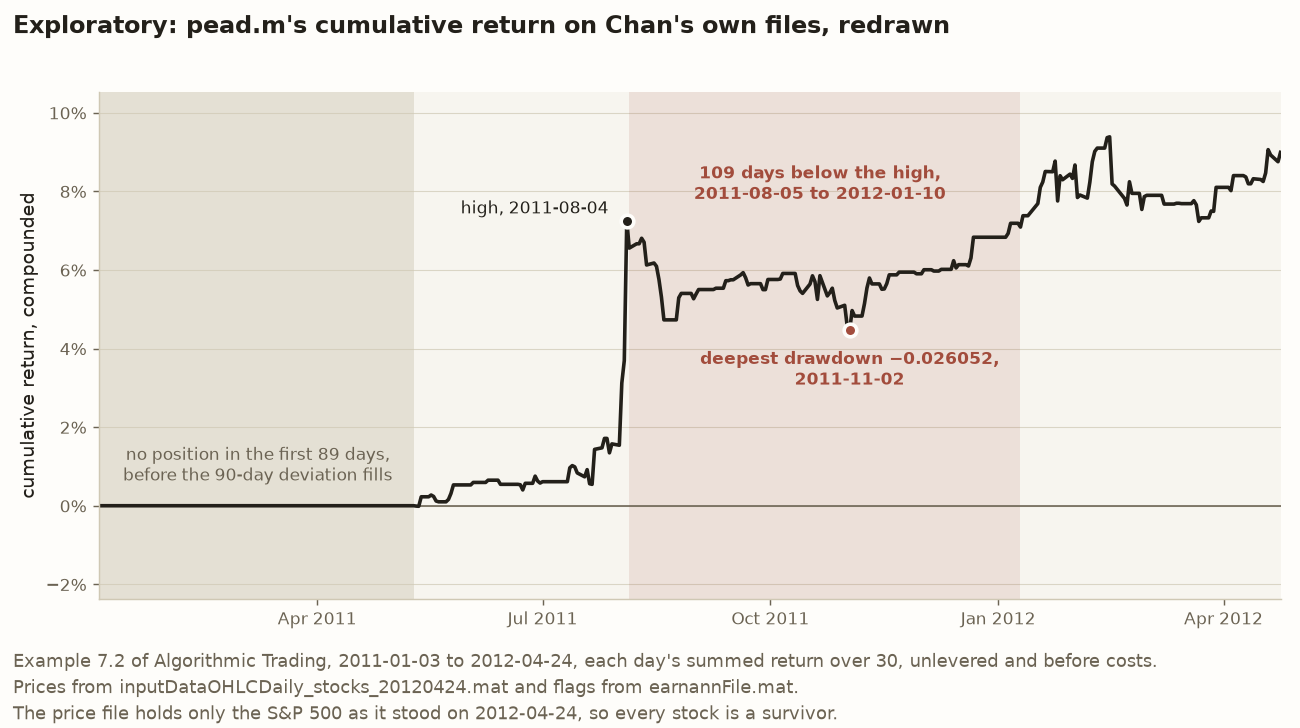
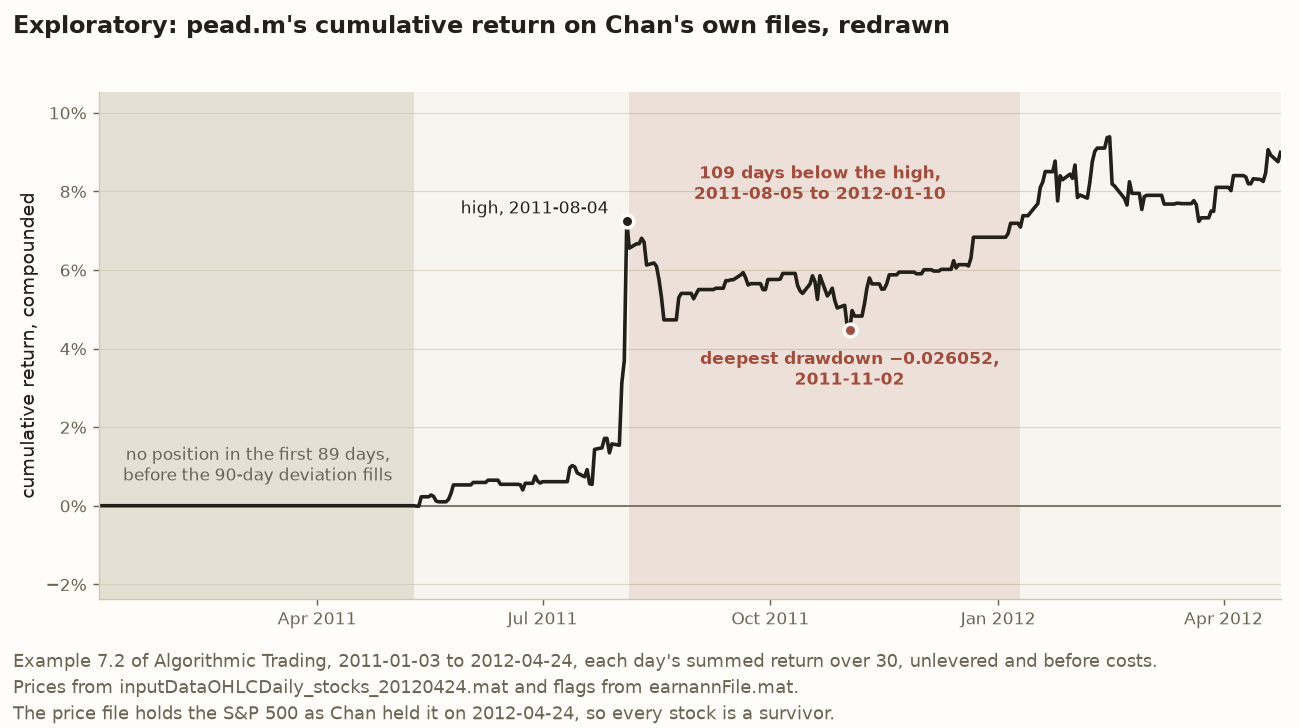
docs(blog): act on the review of the post-earnings drift post
Gives the leverage Chan's own reason, that the strategy is intraday,
rather than tying it to idle capital. Restores two hedges Chan wrote,
stops naming the flag file's source, and says "as Chan held it" for
the price file, including in the figure's note, which is redrawn.
Moves the exploratory label to where the figures first appear, glosses
APR, the Sharpe ratio and the drift, and drops repo vocabulary a blog
reader cannot decode. tests/test_pead.py names its three exceptions as
its siblings do. longest_spell now reads chan.matlab_helpers'
drawdown_path, the loop calculate_max_dd runs, rather than a copy.

Part of #284

Changed region(s): [[0.1538, 0.967, 0.6462, 0.9973]]

diff --git a/src/chan/pead_figures.py b/src/chan/pead_figures.py
@@ -7,8 +7,9 @@ figure for it. :func:`make_cumulative_figure` redraws what ``pead.m``'s closing
 ``plot(cumret)`` draws, which the book prints as Figure 7.2 at location 3024:
 the compounded cumulative return over the flag file's 330 days, at one
 thirtieth of capital a position, unlevered and before costs. It serves the
-post's first lesson, that every printed figure reproduces, and the spell it
-marks serves the third, that most days hold nothing.
+post's first lesson, that every printed figure reproduces. Its shaded start
+serves the third, where the 89 days before the moving deviation fills hold
+nothing, and its spell shows where the 109-day drawdown falls.
 
 Two stretches are shaded.
 
@@ -38,6 +39,7 @@ from matplotlib.figure import Figure
 from matplotlib.ticker import PercentFormatter
 
 from chan.coin_flip_figures import _plain_text, _save, _style, _title
+from chan.matlab_helpers import drawdown_path
 from chan.paths import FIGURES_DIR
 from chan.pead import (
     DENOMINATOR,
@@ -86,19 +88,11 @@ class Spell:
 def longest_spell(cumret: np.ndarray) -> Spell:
     """Where ``calculateMaxDD``'s longest duration falls, under its own rules.
 
-    The high starts at zero and the loop on the second row, as
-    :func:`chan.matlab_helpers.calculate_max_dd` keeps them, so the spell's
-    length is that function's duration. Where two spells tie, the first is
-    taken.
+    It reads :func:`chan.matlab_helpers.drawdown_path`, the loop
+    :func:`chan.matlab_helpers.calculate_max_dd` runs, so the spell's length is
+    that function's duration. Where two spells tie, the first is taken.
     """
-    values = np.asarray(cumret, dtype=float)
-    high = np.zeros_like(values)
-    drawdown = np.zeros_like(values)
-    duration = np.zeros(len(values), dtype=int)
-    for t in range(1, len(values)):
-        high[t] = max(high[t - 1], values[t])
-        drawdown[t] = (1 + values[t]) / (1 + high[t]) - 1
-        duration[t] = 0 if drawdown[t] == 0 else duration[t - 1] + 1
+    _, drawdown, duration = drawdown_path(cumret)
     last = int(np.argmax(duration))
     first = last - int(duration[last]) + 1
     trough = first + int(np.argmin(drawdown[first : last + 1]))
@@ -205,7 +199,7 @@ def make_cumulative_figure(out: Path | None = None, drift: Drift | None = None) 
         f"Example 7.2 of Algorithmic Trading, {days[0].date()} to {days[-1].date()}, each day's "
         f"summed return over {DENOMINATOR}, unlevered and before costs.\n"
         f"Prices from {PRICE_FILE} and flags from {FLAG_FILE}.\n"
-        "The price file holds only the S&P 500 as it stood on 2012-04-24, "
+        "The price file holds the S&P 500 as Chan held it on 2012-04-24, "
         "so every stock is a survivor.",
     )
     fig.tight_layout(rect=(0, 0.11, 1, 0.96))

diff --git a/src/chan/matlab_helpers.py b/src/chan/matlab_helpers.py
@@ -85,6 +85,9 @@ endings are stripped, measured on
   over a trailing window of rows, NaN until the window first fills.
 - :func:`calculate_max_dd` is ``calculateMaxDD``, the deepest drawdown of a
   compounded cumulative return and the longest run of days spent below a high.
+  :func:`drawdown_path` is its loop, returning each day's high, drawdown and
+  duration, so a caller that needs to know where the longest run falls reads
+  the same calculation rather than a second copy of it.
 
 Book two's ``smartmean``, ``smartsum`` and ``backshift`` compute what the first
 edition's do, so they are not carried twice.
@@ -260,6 +263,25 @@ def smart_moving_std(x: ArrayLike, lookback: int) -> NDArray[np.float64]:
     return spread
 
 
+def drawdown_path(
+    cumret: ArrayLike,
+) -> tuple[NDArray[np.float64], NDArray[np.float64], NDArray[np.int_]]:
+    """``calculateMaxDD``'s loop: each day's high, drawdown and duration below the high.
+
+    :func:`calculate_max_dd` takes the minimum drawdown and the maximum
+    duration of these, and its docstring states the rules and the two quirks.
+    """
+    values = np.asarray(cumret, dtype=float)
+    high = np.zeros_like(values)
+    drawdown = np.zeros_like(values)
+    duration = np.zeros(len(values), dtype=int)
+    for t in range(1, len(values)):
+        high[t] = max(high[t - 1], values[t])
+        drawdown[t] = (1 + values[t]) / (1 + high[t]) - 1
+        duration[t] = 0 if drawdown[t] == 0 else duration[t - 1] + 1
+    return high, drawdown, duration
+
+
 def calculate_max_dd(cumret: ArrayLike) -> tuple[float, int]:
     """``calculateMaxDD``: the deepest drawdown and the longest stretch below a high.
 
@@ -273,13 +295,6 @@ def calculate_max_dd(cumret: ArrayLike) -> tuple[float, int]:
     the first day's ``cumret``, and the loop starts on the second row, so the
     first day's drawdown and duration are both 0 whatever it returned.
     """
-    values = np.asarray(cumret, dtype=float)
-    high = np.zeros_like(values)
-    drawdown = np.zeros_like(values)
-    duration = np.zeros(len(values), dtype=int)
-    for t in range(1, len(values)):
-        high[t] = max(high[t - 1], values[t])
-        drawdown[t] = (1 + values[t]) / (1 + high[t]) - 1
-        duration[t] = 0 if drawdown[t] == 0 else duration[t - 1] + 1
+    _, drawdown, duration = drawdown_path(cumret)
     # MATLAB's min skips NaN. The first row is always 0, so the minimum exists.
     return float(np.nanmin(drawdown)), int(duration.max())

diff --git a/tests/test_pead.py b/tests/test_pead.py
@@ -1,7 +1,14 @@
 """The pins for post-earnings announcement drift, *Algorithmic Trading*'s Example 7.2.
 
 This file is the single authority for every number any prose surface quotes
-about Example 7.2. ``docs/replication-log.md`` Entry 12 carries the verdicts and
+about Example 7.2, with three exceptions, all in
+``blog/post-earnings-drift-lessons.md``. The post quotes the dates of the
+longest spell below the high, which ``tests/test_pead_figures.py`` holds. It
+quotes the flag file's 1,885 flags, Apple's three flagged days and the 29
+stocks with none, which ``tests/test_series.py`` holds as facts about the
+committed flags. And it recalls Example 7.7's two Sharpe ratios, which
+``tests/test_equity_seasonals.py`` holds. README lists what the post says that
+nothing pins. ``docs/replication-log.md`` Entry 12 carries the verdicts and
 points here row by row.
 
 Every pin on the committed files reads two vintages and one specification, so
@@ -205,7 +212,7 @@ class TestTheFigures:
         assert np.isfinite(drift.daily).all(), SPEC
 
     def test_157_of_the_330_days_hold_a_position_from_2011_05_11(self, drift: Drift) -> None:
-        """Most days hold nothing, which is the idle capital Chan's leverage is for."""
+        """More than half the days hold nothing, because each position gets a thirtieth."""
         held = np.count_nonzero(drift.positions, axis=1) > 0
         assert int(held.sum()) == 157, SPEC
         assert str(drift.days[held][0].date()) == "2011-05-11", SPEC

diff --git a/tests/test_pead_figures.py b/tests/test_pead_figures.py
@@ -10,9 +10,13 @@ reason ``tests/test_regime_figure.py`` gives.
 The figure reads the vintages and the specification ``tests/test_pead.py``
 names as its ``SPEC``, which every failure message here carries too.
 
-Three things are pinned here and nowhere else: the dates of the longest spell
-below the high, the high it falls from, and that the deepest drawdown sits
-inside it. ``calculateMaxDD`` returns the deepest drawdown and the longest
+Three things are pinned here and nowhere else.
+
+1. The dates of the longest spell below the high.
+2. The high it falls from.
+3. That the deepest drawdown sits inside it.
+
+``calculateMaxDD`` returns the deepest drawdown and the longest
 duration separately, and the two need not share a spell, so the figure
 finding them together is a fact about this run rather than about the helper.
 

diff --git a/blog/post-earnings-drift-lessons.md b/blog/post-earnings-drift-lessons.md
@@ -4,11 +4,13 @@
 
 ## Why reproduce a strategy that trades the news without reading it
 
-Ernest Chan’s second book, *Algorithmic Trading*, has a strategy that trades earnings announcements without reading them. A company announces after the close. The next morning, the stock opens well above or well below where it closed. Chan buys the stock if the open is up and shorts it if the open is down, and closes the position at the end of the same day. His case is that the move after an earnings surprise keeps going in the same direction for a while, and that the open already tells the trader which direction that is. The strategy “does not even require the trader to know whether the earnings are above or below analysts’ expectations” (Chan, 2013, location 2994).
+Ernest Chan’s second book, *Algorithmic Trading*, has a strategy that trades earnings announcements without reading them. A company announces after the close. The next morning, the stock opens well above or well below where it closed. Chan buys the stock if the open is up and shorts it if the open is down, and closes the position at the end of the same day. His case rests on an effect called post-earnings announcement drift: after an earnings surprise, the price keeps moving in the same direction for a while. The open already tells the trader which direction that is. The strategy “does not even require the trader to know whether the earnings are above or below analysts’ expectations” (Chan, 2013, location 2994).
 
-He reports that on the S&P 500 from January 2011 to April 2012, the strategy earned an APR of 6.7 percent with a Sharpe ratio of “a very respectable 1.5” (Chan, 2013, location 3024). The book’s code reads two data files that Chan saved, and both are public, so this repository committed them and ran his script on them.
+He reports that on the S&P 500 from January 2011 to April 2012, the strategy earned an annual percentage rate, or APR, of 6.7 percent, with a Sharpe ratio of “a very respectable 1.5” (Chan, 2013, location 3024). The Sharpe ratio divides the average daily return by its standard deviation and scales the result to a year, so it measures return per unit of risk.
 
-Every figure Chan prints for this example lands. The arithmetic annual return comes out at 0.066743, which is the book’s 6.7 percent. The Sharpe ratio comes out at 1.4909, which is the book’s 1.5. The script’s other three printed figures land too, and so do two numbers Chan states in his text.
+Chan published both his code and the two data files it reads, so a reader can check whether his figures follow from them before arguing about the strategy. Any later argument about whether the drift pays rests on that check. This repository keeps copies of both files and ran his script on them.
+
+Every figure Chan prints for this example matches. Computed, the arithmetic annual return, which is 252 times the average daily return, is 0.066743, the book’s 6.7 percent. The Sharpe ratio is 1.4909, the book’s 1.5. Three more figures the script prints match too, and so do two numbers Chan states in his text. Every one of these results is **exploratory**, because Chan chose the rule and its settings on these same days.
 
 None of that says whether the drift pays. A reproduction on the author’s files with the author’s script can say whether his numbers follow from his data. It cannot say what the strategy earned on the stocks a trader could actually have held in 2011, what it earns after costs, or what it has earned since.
 
@@ -16,14 +18,14 @@ The five lessons below say what the reproduction does teach. The code is open so
 
 ## The strategy and the two files
 
-The effect is called post-earnings announcement drift. Prices keep moving in the direction of an earnings surprise after the announcement, and Chan says it has been “known and studied since 1968”, citing Bernard and Thomas, 1989 (Chan, 2013, location 2994). His explanation is that information spreads slowly: if momentum comes from “the slow diffusion of news”, a trader can profit from the hours right after the news (Chan, 2013, location 2990).
+Chan says the drift has been “known and studied since 1968”, citing Bernard and Thomas, 1989 (Chan, 2013, location 2994). His reading starts from a common belief. “If, as many people believe, momentum is driven by the slow diffusion of news”, a trader can profit from the hours right after the news (Chan, 2013, location 2990).
 
 His version measures the surprise from the price alone. Call the move from one day’s close to the next day’s open the gap. In this post, gap means only that.
 
 1. **The announcement.** The trade needs a stock that announced after the previous close and before today’s open, between 4:00 p.m. and 9:30 a.m. Eastern (Chan, 2013, locations 3002 and 3010). An announcement during the trading day does not count, because its news is already in the open.
 2. **The threshold.** The gap has to be large against the stock’s own recent gaps. Chan measures that with the 90-day moving standard deviation of the gap, which is the yardstick for whether an announcement was “surprising” enough (Chan, 2013, location 3019). A gap of at least half that deviation goes long. A gap of at most minus half goes short.
 3. **The holding period.** The position opens at the open and closes at the same day’s close.
-4. **The sizing.** Each day’s returns are summed across stocks and divided by 30, so every position gets a thirtieth of the capital.
+4. **The sizing.** The strategy sums each day’s returns across stocks and divides by 30, so every position gets a thirtieth of the capital.
 
 [Two files](https://github.com/l3a0/quantitative-trading/blob/main/data/README.md) carry the data, both Chan’s own MATLAB files converted to one file per stock.
 
@@ -32,9 +34,7 @@ His version measures the surprise from the price alone. Call the move from one d
 
 The script, `pead.m`, cuts the prices down to the flag file’s 330 days and runs the rule. This repository transcribed it line by line from a public mirror of Chan’s code, `ivanliu1989/algorithmic_trading` at commit `45670240`.
 
-One more fact about the price file decides what any of this can mean. It is the S&P 500 as Chan held it on 2012-04-24, carried backwards. A company that left the index before that day is not in it. Lesson 5 comes back to that.
-
-Every result below is **exploratory**. Reproducing Chan’s figures spends the 2011 and 2012 sample on a rule he chose, so the run says whether his numbers follow from his files and nothing about whether the drift pays.
+The price file holds 497 stocks of the S&P 500 as Chan held it on 2012-04-24, with each one’s prices running back from that day. A company that left the index before then is not in it. Lesson 5 comes back to that.
 
 ## Lesson 1: every figure Chan prints reproduces on his own files
 
@@ -53,13 +53,13 @@ Every result below is **exploratory**. Reproducing Chan’s figures spends the 2
 \end{array}
 ```
 
-Every computed figure lands on the printed one at the precision it was printed. The book’s numbers come from location 3024, and the script’s from its own closing lines.
+Every computed figure matches the printed one at the precision the source printed it. The book’s numbers come from location 3024, and the script’s from its own closing lines.
 
-The book calls its 6.7 percent an APR, and the script prints two figures that could carry that name. The arithmetic one is 252 times the mean daily return. The compounded one grows the daily returns into a total and annualizes it. At the book’s one decimal, the compounded figure reads 6.8 percent, so the book’s 6.7 can only be the arithmetic one. A check that set 6.7 against the compounded figure would fail on a correct transcription and look like a problem with the data.
+The book calls its 6.7 percent an APR, and the script prints two figures that could carry that name. One is the arithmetic annual return. The other, the compounded APR, grows the daily returns into a total and annualizes it. At the book’s one decimal, the compounded figure reads 6.8 percent, so the book’s 6.7 can only be the arithmetic one. A check that set 6.7 against the compounded figure would fail on a correct transcription and look like a problem with the data.
 
-The figure below redraws what `pead.m` draws last, the cumulative return Chan prints as Figure 7.2 in the book. Nothing compares it with the book’s own figure, which is not among the committed highlights, so it is a redraw of the script’s plot rather than a checked copy of the book’s.
+The figure below redraws what `pead.m` draws last, the cumulative return Chan prints as Figure 7.2 in the book. Nothing compares it with the book’s own figure, which this repository holds no copy of, so it is a redraw of the script’s plot rather than a checked copy of the book’s.
 
-![A line chart of the strategy’s compounded cumulative return over 330 trading days from January 2011 to April 2012, in percent of capital, unlevered and before costs. A grey band covers the first 89 days, labelled as holding no position before the 90-day deviation fills, and the line is flat at zero there. From mid-May the line climbs slowly, jumps steeply in early August to a high marked on 2011-08-04, and then sits below that high inside a shaded red band labelled 109 days below the high, from 2011-08-05 to 2012-01-10. A red point inside the band marks the deepest drawdown, −0.026052, on 2011-11-02. The line recovers past the high in January 2012 and ends above it. The title calls the redraw exploratory, and the note names Chan’s two files and says the price file holds only survivors.](../docs/figures/pead_cumulative_return.png)
+![A line chart of the strategy’s compounded cumulative return over 330 trading days from January 2011 to April 2012, in percent of capital, unlevered and before costs. A grey band covers the first 89 days, labelled as holding no position before the 90-day deviation fills, and the line is flat at zero there. From mid-May the line climbs slowly, jumps steeply in early August to a high marked on 2011-08-04, and then sits below that high inside a shaded red band labelled 109 days below the high, from 2011-08-05 to 2012-01-10. A red point inside the band marks the deepest drawdown, −0.026052, on 2011-11-02. The line climbs back to the high in January 2012. The title calls the redraw exploratory, and the note names Chan’s two files and says every stock in the price file is a survivor.](../docs/figures/pead_cumulative_return.png)
 
 *`pead.m`’s cumulative return, redrawn on Chan’s files. The grey band is the stretch before the moving deviation can be computed, and the red band is the longest spell below a high.*
 
@@ -68,21 +68,22 @@ The figure below redraws what `pead.m` draws last, the cumulative return Chan pr
 The strategy never reads an earnings number. It reads two things that stand in for one, and each is something a trader can check.
 
 1. **The gap stands in for the surprise.** Half a moving standard deviation is a low bar. On the committed files, 1,279 announcements fall on or after the first day the 90-day deviation can be computed, and 1,072 of them clear the bar and are traded. So most flagged announcements get traded, and whether a stock trades on a given day comes down mostly to whether the flag file marks it.
-2. **The flags stand in for the calendar.** The strategy trades only where Chan’s flag file says a stock announced overnight. The file holds 1,885 flags across its 497 stocks, and 29 of the stocks carry none at all, so the strategy can never trade them. Apple is flagged on three days: 2011-04-21, 2011-07-20 and 2012-01-25. Apple released earnings five times inside the window, so two of its releases carry no flag. Whether that comes from timing or from the source Chan scraped, the committed file cannot say.
+2. **The flags stand in for the calendar.** The strategy trades only where Chan’s flag file says a stock announced overnight. The file holds 1,885 flags across its 497 stocks, and 29 of the stocks carry none at all, so the strategy can never trade them. Apple is flagged on three days: 2011-04-21, 2011-07-20 and 2012-01-25. Apple released earnings five times inside the window, so two of its releases carry no flag. Whether that comes from the timing of those releases or from whatever source built the file, the committed file cannot say.
 
-The book supplies a function that builds flags like these by scraping about a year of an earnings calendar from earnings.com (Chan, 2013, location 3002). Nothing committed here records what that calendar held. [Issue 251](https://github.com/l3a0/quantitative-trading/issues/251) reruns the rule on announcement times from the SEC’s EDGAR filings, which a reader can fetch today.
+The book supplies a function that builds flags like these by scraping about a year of an earnings calendar from earnings.com (Chan, 2013, location 3002). Nothing committed here records what that calendar held. [Issue 251](https://github.com/l3a0/quantitative-trading/issues/251) is open to rerun the rule on announcement times from the SEC’s EDGAR filings, which a reader can fetch today.
 
 The short holding period is part of Chan’s argument too. In the previous chapter he writes that momentum from earnings announcements “used to last several days” and now lasts “barely until the market closes” (Chan, 2013, location 2890). That is why the strategy exits at the close.
 
 ## Lesson 3: the 30 and the leverage are facts about the run
 
-Two of Chan’s numbers are outputs of the backtest that he then uses as inputs to it.
+Two of Chan’s numbers come out of the backtest and then go back into it.
 
 1. **The 30.** The busiest day of the run holds 30 positions, and that is the number Chan divides each day’s return by, because “there is a maximum of 30 positions in one day” (Chan, 2013, location 3024). Nobody trading in January 2011 could have known the busiest day ahead would hold 30. Chan names the problem himself, “a certain degree of look-ahead bias”, and argues it is “not a very grievous bias” because the number of announcements a day is predictable (Chan, 2013, location 3024). The reproduction confirms the 30 and cannot measure the bias.
-2. **The idle capital.** Sizing every position at a thirtieth of capital means that on a day with fewer than 30 positions, the rest of the capital earns nothing. No position is possible in the first 89 days, because the 90-day deviation has not filled, which is the grey band in the figure. The first position comes on the first day one could, 2011-05-11. Across the whole window, 157 of the 330 days hold any position at all, so more than half the days hold none.
-3. **The leverage.** Idle capital is what makes Chan’s next step possible. Because the strategy holds nothing overnight, he says it can be levered “by at least four times, giving an annualized average return of close to 27 percent” (Chan, 2013, location 3024). Leverage multiplies every day’s return, so it multiplies the arithmetic annual return. At exactly four, the figure is 0.266970, which rounds to his 27. The check takes four because it is the floor Chan states.
+2. **The leverage.** Because the strategy holds nothing overnight, Chan says it can be levered “by at least four times, giving an annualized average return of close to 27 percent” (Chan, 2013, location 3024). Leverage multiplies every day’s return, so it multiplies the arithmetic annual return. At exactly four, the figure is 0.266970, which rounds to his 27. This post uses four because it is the floor Chan states.
 
-The figure shows what the idle days do to the line. The longest spell below a high runs 109 trading days, from 2011-08-05 to 2012-01-10, and the deepest drawdown, −0.026052, falls inside it on 2011-11-02. `pead.m` reports the depth and the length separately, and the two need not belong to the same spell. On this run they do.
+Dividing by the busiest day has a cost on every other day. Each position gets a thirtieth of the capital, so on a day with fewer than 30 positions, the rest of the capital earns nothing. No position is possible in the first 89 days, because the 90-day deviation has not filled, which is the grey band in the figure. The first position comes on the first day one could, 2011-05-11. Across the whole window, 157 of the 330 days hold any position at all, so more than half the days hold none.
+
+The figure also shows the longest spell below a high. It runs 109 trading days, from 2011-08-05 to 2012-01-10, and the deepest drawdown, −0.026052, falls inside it on 2011-11-02. `pead.m` reports the depth and the length separately, and the two need not belong to the same spell. On this run they do.
 
 ## Lesson 4: which book’s helper runs decides a printed digit
 
@@ -90,40 +91,40 @@ The figure shows what the idle days do to the line. The longest spell below a hi
 
 [The post on the equity seasonals](https://github.com/l3a0/quantitative-trading/blob/main/blog/equity-seasonals-lessons.md) teaches this on the revised Example 7.7, where the second book’s helper prints a Sharpe ratio of −0.1243 and the first edition’s gives −0.1236. Two things are new here.
 
-1. **The helper belongs to this example’s own book.** The first edition’s helper ran this repository’s earlier replications, so it was the one a port would reach for first. The right one for `pead.m` is the second book’s, the book the script comes from.
+1. **The helper belongs to this example’s own book.** The first edition’s helper ran this repository’s earlier replications, so it was the one a translation of Chan’s code would reach for first. The right one for `pead.m` is the second book’s, the book the script comes from.
 2. **The digit that moves is the return, not the Sharpe ratio.** Here `smartstd` runs inside the 90-day moving deviation as well as in the Sharpe ratio. With the first edition’s helper, the strategy takes 1,071 positions rather than 1,072, and the arithmetic annual return becomes 0.066833. That prints as 0.0668, one unit off the script’s 0.0667. The Sharpe ratio, the compounded APR and both drawdown figures still print as Chan’s.
 
-So a port that used the wrong helper would land on four of the five printed figures and miss the fifth by one digit. That looks like a near miss on the data. It is a wrong helper, and the only way to tell the two apart is to check which helper the script’s own book ships.
+So a translation that used the wrong helper would match four of the five printed figures and miss the fifth by one digit. That looks like a near miss on the data. It is a wrong helper, and the only way to tell the two apart is to check which helper the script’s own book ships.
 
 ## Lesson 5: an exact reproduction checks the arithmetic, not the edge
 
-Every figure landing says that the code, the data and the book agree. It says nothing about whether the drift paid, for three reasons.
+Every figure matching says that the code, the data and the book agree. It says nothing about whether the drift paid, for three reasons.
 
-1. **Every stock is a survivor.** The price file is the S&P 500 as it stood on 2012-04-24, carried backwards over the window. A company that left the index during 2011, because it was acquired, shrank or failed, is absent, and the strategy could not have traded its announcements. [The post on survivorship and transaction costs](https://github.com/l3a0/quantitative-trading/blob/main/blog/survivorship-and-transaction-costs.md) teaches in full what a database of survivors does to a backtest. [Issue 252](https://github.com/l3a0/quantitative-trading/issues/252) reruns this strategy on the index as it stood each day.
+1. **Every stock is a survivor.** The price file holds the S&P 500 as Chan held it on 2012-04-24, with each stock’s prices running back over the window. A company that left the index during 2011, because it was acquired, shrank or failed, is absent, and the strategy could not have traded its announcements. [The post on survivorship and transaction costs](https://github.com/l3a0/quantitative-trading/blob/main/blog/survivorship-and-transaction-costs.md) teaches in full what a database of survivors does to a backtest. [Issue 252](https://github.com/l3a0/quantitative-trading/issues/252) is open to rerun this strategy on the index as it stood each day.
 2. **No cost is charged.** `pead.m` charges nothing, and every position is a full round trip inside one day: a buy and a sell, or a short and a cover, each paying a spread and a commission. A strategy that trades 1,072 times across 330 days at a thirtieth of capital each carries costs a reader would want priced before believing the 6.7 percent.
-3. **The sample is spent.** Chan chose the rule and its settings, and took the 30 from this very window. Reproducing his figures on the same days tests his arithmetic, so the result is exploratory. A result that could confirm the drift would need a rule fixed in writing first and data the rule had never seen.
+3. **The rule was chosen on the same days it is tested on.** Chan chose the rule and its settings, and took the 30 from this very window. Reproducing his figures on the same days tests his arithmetic, so the result is exploratory. A result that could confirm the drift would need a rule fixed in writing first and data the rule had never seen.
 
 ## What this replication cannot say
 
 Five questions are beyond it.
 
 1. **What the drift earned on the index as it stood each day.** Every stock here was in the S&P 500 on 2012-04-24. [Issue 252](https://github.com/l3a0/quantitative-trading/issues/252) is where that gets measured.
-2. **Whether Chan’s flags are the announcement calendar.** They miss two of Apple’s five releases inside the window. [Issue 251](https://github.com/l3a0/quantitative-trading/issues/251) reruns the rule on EDGAR’s filings.
+2. **Whether Chan’s flags are the announcement calendar.** They miss two of Apple’s five releases inside the window. [Issue 251](https://github.com/l3a0/quantitative-trading/issues/251) is open to rerun the rule on EDGAR’s filings.
 3. **What costs would take.** Nothing here charges any.
 4. **How large the look-ahead in the 30 is.** Chan argues it is small, and nothing here tests the argument.
-5. **Whether holding overnight adds anything.** Chan says it does not, because “the overnight returns are negative on average”, and reads that as the drift having shortened as more traders learned of it (Chan, 2013, location 3039). The script holds nothing overnight, so nothing here tests the claim.
+5. **Whether holding overnight adds anything.** Chan says it does not, because “the overnight returns are negative on average”, and says this “may be” a case of the drift shortening as more traders learned of it (Chan, 2013, location 3039). The script holds nothing overnight, so nothing here tests the claim.
 
 ## What this means for a trader
 
 One habit for each lesson.
 
-1. **Reproduce the printed figures before arguing with them.** Every figure for this example lands on Chan’s files, so any disagreement with his result is about the data or the edge, not his arithmetic.
-2. **Check each stand-in a strategy reads.** The gap stands in for the surprise and a scraped calendar stands in for the announcements. Each can be wrong in its own way, and here the calendar decides most of what gets traded.
-3. **Ask which numbers were chosen after the backtest ran.** The 30 is the busiest day of the very window it sizes, and the four-times leverage rests on how much capital that 30 leaves idle.
+1. **Reproduce the printed figures before arguing with them.** Every figure for this example matches on Chan’s files, so any disagreement with his result is about the data or the edge, not his arithmetic.
+2. **Check each stand-in a strategy reads.** The gap stands in for the surprise and a flag file stands in for the announcement calendar. Each can be wrong in its own way, and here the calendar decides most of what gets traded.
+3. **Ask which numbers were chosen after the backtest ran.** The 30 is the busiest day of the very window it sizes, and the 27 percent depends on it, since leverage multiplies a return that was divided by 30.
 4. **Find out which version of a helper the author ran.** A helper’s name does not identify it, and the wrong one can cost one printed digit and look like noise.
 5. **Treat an exact reproduction as a check on arithmetic.** Whether the drift pays needs survivors replaced, costs charged and a rule written down before new data is read.
 
-On Chan’s own files, every number he prints for this strategy reproduces. Whether it earns money is a separate question, and two open issues are where it gets asked.
+[Issue 252](https://github.com/l3a0/quantitative-trading/issues/252) is open to rerun the strategy on the index as it stood each day, and [issue 251](https://github.com/l3a0/quantitative-trading/issues/251) on EDGAR’s announcement times.
 
 ## References
 

diff --git a/README.md b/README.md
@@ -1282,16 +1282,16 @@ the replication log.
 Four groups of its figures are not pinned here.
 
 1. Chan's words, each cited by its Kindle location in *Algorithmic Trading*
-   through [its committed notes](research/book-notes/algorithmic-trading.md):
-   "used to last several days" and "barely until the market closes" at 2890,
-   "the slow diffusion of news" at 2990, "known and studied since 1968" and
-   the trader needing no expectations at 2994, the earnings.com calendar and
-   the window from the previous close to the open at 3002 and 3010, the
-   90-day deviation as the test of "surprising" at 3019, "a very respectable
-   1.5", "a certain degree of look-ahead bias", "not a very grievous bias"
-   and "at least four times" at 3024, and "the overnight returns are
-   negative on average" at 3039. The book's figures at 3024 are pinned. Its
-   words are not. The *Quantitative Trading* quotation the plan named, at
+   through [its committed notes](research/book-notes/algorithmic-trading.md).
+   "Used to last several days" and "barely until the market closes" are at
+   2890. "The slow diffusion of news" is at 2990. "Known and studied since
+   1968" and the trader needing no view of expectations are at 2994. The
+   earnings.com calendar and the window from the previous close to the open
+   are at 3002 and 3010. The 90-day deviation as the test of "surprising" is
+   at 3019. "A very respectable 1.5", "a certain degree of look-ahead bias",
+   "not a very grievous bias" and "at least four times" are at 3024. "The
+   overnight returns are negative on average" is at 3039. The book's figures
+   at 3024 are pinned, and its words are not. The *Quantitative Trading* quotation the plan named, at
    location 3360 of the revised edition, was dropped, because the Kindle
    Cloud Reader could not be reached on 2026-10-03 to read its page.
 2. A fact outside the committed data. Apple released earnings five times

diff --git a/docs/replication-log.md b/docs/replication-log.md
@@ -2745,8 +2745,8 @@ number of announcements a day is predictable, and nothing here tests that.
 Nothing checks this entry against the suite, for the reason Entry 1 states. A
 change to any assertion named above moves this entry in the same commit, and
 [blog/post-earnings-drift-lessons.md](../blog/post-earnings-drift-lessons.md)
-moves with it, since that post quotes most of these figures. So does its one
-figure, which `uv run python -m chan.pead_figures` redraws.
+moves with it, since that post quotes most of these figures. So does the
+post's one figure, which `uv run python -m chan.pead_figures` redraws.
 
 ## Entry 13: the PCA factor model, Chan's *Quantitative Trading*
 
